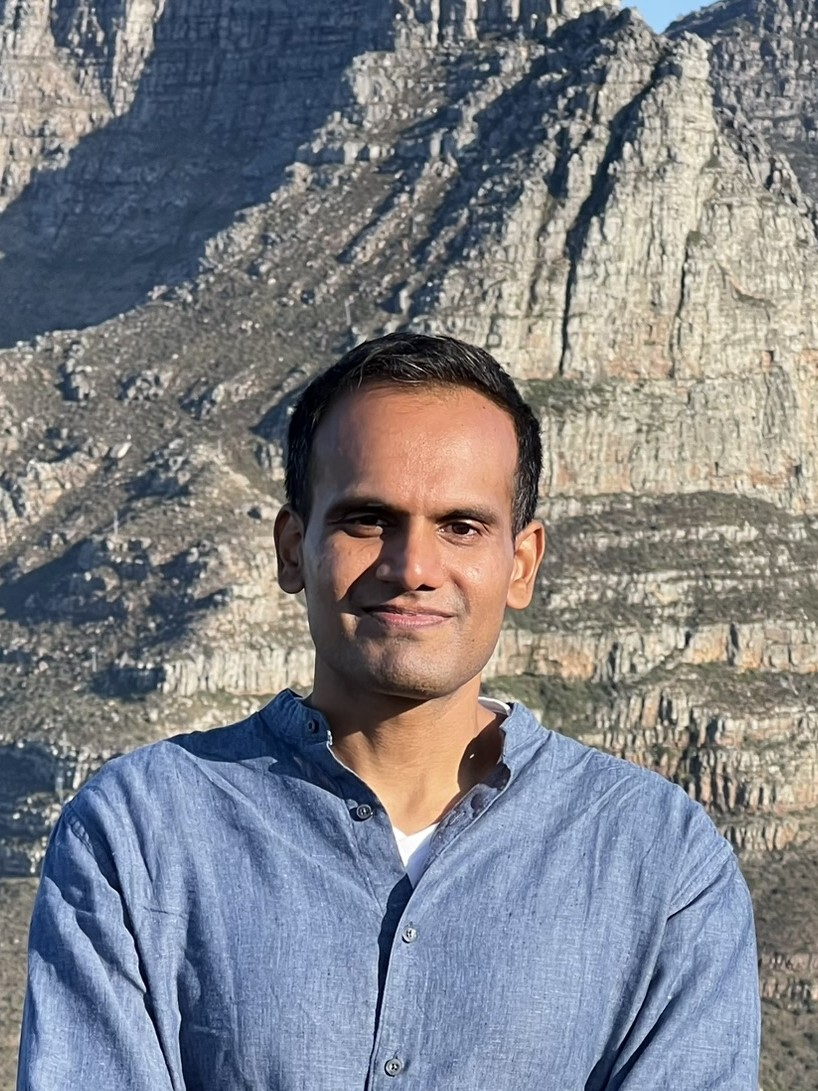
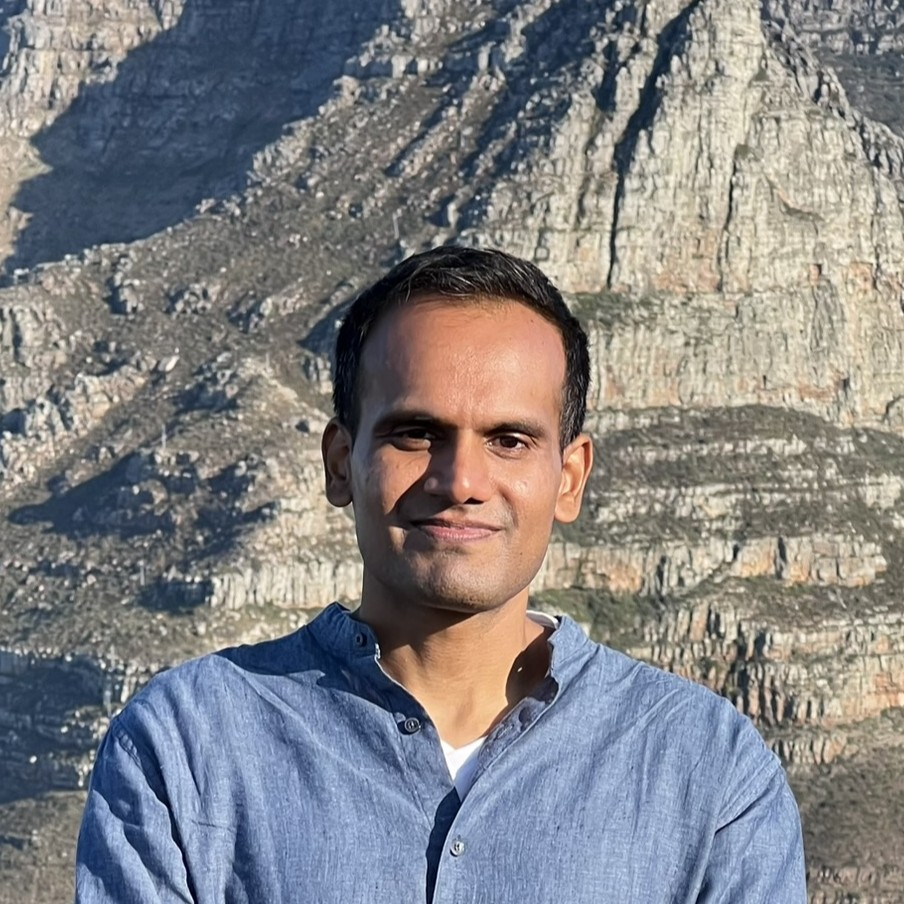
Continuing setup

diff --git a/_pages/about.md b/_pages/about.md
@@ -2,27 +2,24 @@
 layout: about
 title: about
 permalink: /
-subtitle: <a href='#'>Affiliations</a>. Address. Contacts. Motto. Etc.
+subtitle: <strong>ML Scientist</strong> @Booking.com
 
 profile:
   align: right
   image: prof_pic.jpg
-  image_circular: false # crops the image to make it circular
-  more_info: >
-    <p>555 your office number</p>
-    <p>123 your address street</p>
-    <p>Your City, State 12345</p>
+  image_circular: true # crops the image to make it circular
+  more_info:
 
-selected_papers: true # includes a list of papers marked as "selected={true}"
+selected_papers: false # includes a list of papers marked as "selected={true}"
 social: true # includes social icons at the bottom of the page
 
 announcements:
-  enabled: true # includes a list of news items
+  enabled: false # includes a list of news items
   scrollable: true # adds a vertical scroll bar if there are more than 3 news items
   limit: 5 # leave blank to include all the news in the `_news` folder
 
 latest_posts:
-  enabled: true
+  enabled: false
   scrollable: true # adds a vertical scroll bar if there are more than 3 new posts items
   limit: 3 # leave blank to include all the blog posts
 ---

diff --git a/_pages/repositories.md b/_pages/repositories.md
@@ -3,7 +3,7 @@ layout: page
 permalink: /repositories/
 title: repositories
 description: Edit the `_data/repositories.yml` and change the `github_users` and `github_repos` lists to include your own GitHub profile and repositories.
-nav: true
+nav: false
 nav_order: 4
 ---
 

diff --git a/_pages/publications.md b/_pages/publications.md
@@ -3,7 +3,7 @@ layout: page
 permalink: /publications/
 title: publications
 description: publications by categories in reversed chronological order. generated by jekyll-scholar.
-nav: true
+nav: false
 nav_order: 2
 ---
 

diff --git a/_pages/projects.md b/_pages/projects.md
@@ -3,7 +3,7 @@ layout: page
 title: projects
 permalink: /projects/
 description: A growing collection of your cool projects.
-nav: true
+nav: false
 nav_order: 3
 display_categories: [work, fun]
 horizontal: false

diff --git a/_news/announcement_1.md b/_news/announcement_1.md
@@ -1,8 +1,8 @@
 ---
 layout: post
-date: 2015-10-22 15:59:00-0400
+date: 2025-07-07 20:00:00+0200
 inline: true
 related_posts: false
 ---
 
-A simple inline announcement.
+Hello, World! :sparkles: :smile:

diff --git a/_pages/profiles.md b/_pages/profiles.md
@@ -3,7 +3,7 @@ layout: profiles
 permalink: /people/
 title: people
 description: members of the lab or group
-nav: true
+nav: false
 nav_order: 7
 
 profiles:

diff --git a/_pages/blog.md b/_pages/blog.md
@@ -2,7 +2,7 @@
 layout: default
 permalink: /blog/
 title: blog
-nav: true
+nav: false
 nav_order: 1
 pagination:
   enabled: true

diff --git a/_pages/dropdown.md b/_pages/dropdown.md
@@ -1,7 +1,7 @@
 ---
 layout: page
 title: submenus
-nav: true
+nav: false
 nav_order: 8
 dropdown: true
 children:
